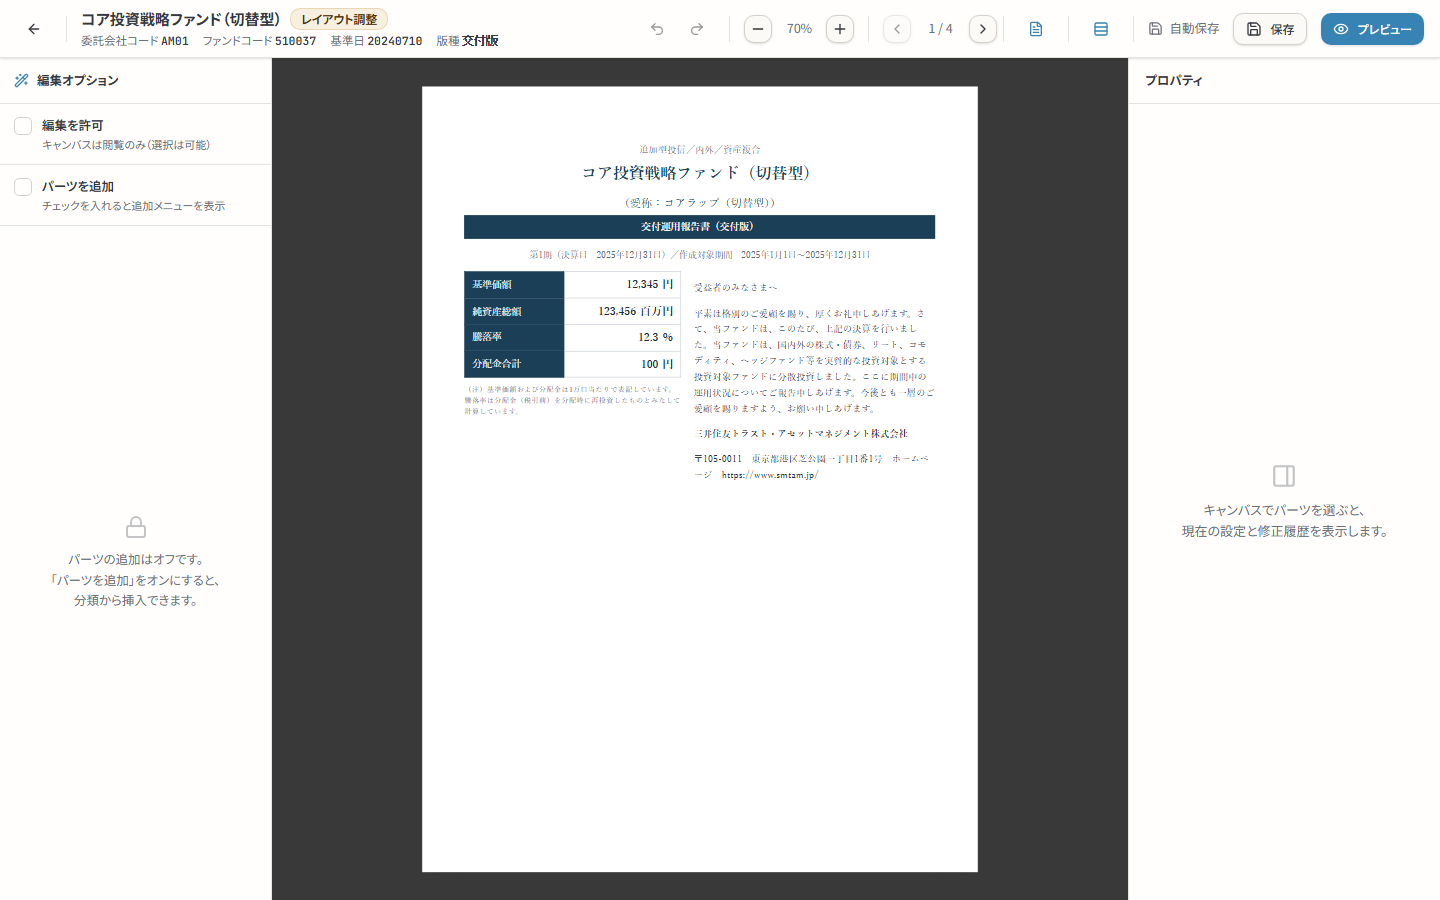
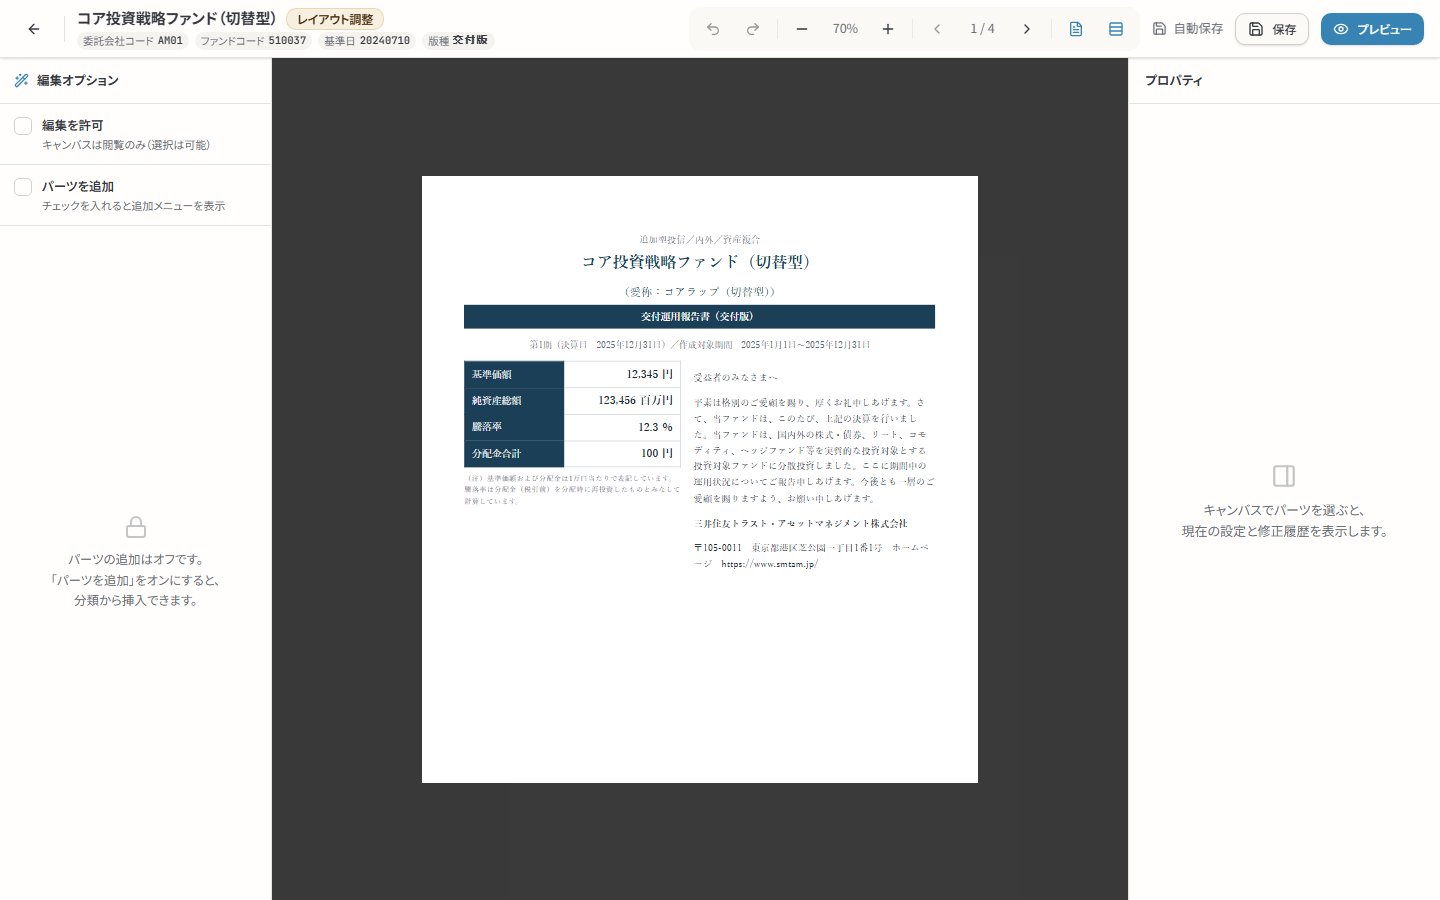
docs(editor): バリデーションライブラリ技術選定の比較資料を追加
編集画面のバリデーション実装に向けた技術選定の比較資料を追加し、編集タブ/エディタの
スクリーンショットを最新の UI へ更新する。

Claude-Session: https://claude.ai/code/session_015aMbdvtz8hQw4kTMmwDthj

diff --git a/docs/editor/技術選定-バリデーションライブラリ比較.md b/docs/editor/技術選定-バリデーションライブラリ比較.md
@@ -1,0 +1,90 @@
+# 技術選定: バリデーションライブラリ比較（zod 代替調査）
+
+> 開発者向けの技術判断メモ。配布用 docx ではなく Markdown 正典として扱う。
+> 調査日: 2026-06-27。
+
+## 背景（なぜ調べたか）
+
+`editor/server` は現在 **zod ^4.4.3** をバリデーション基盤に採用している。次の3点を
+動機に、`ArkType` / `Valibot` 等の代替を評価した。
+
+1. 性能・将来性の妥当性確認
+2. バンドルサイズ削減の余地
+3. 今後 `editor/web`（Vue/Vite SPA）にクライアントバリデーションを追加する布石
+
+結論を先に書くと、**サーバは zod 4 継続が妥当**、**フロント追加時はそのレイヤだけ
+`Valibot` を検討**、が本リポジトリへの推奨である。
+
+## 現状の zod 使用実態
+
+- **使用範囲はサーバ専用**。`editor/server` の 13 ファイルのみ。`editor/web` /
+  `editor/shared` / `graph-editor` は zod 非依存で、フロントにクライアント
+  バリデーションは未実装。
+- **`zod-openapi ^5.4.6` と密結合**（最大のロックイン）。`z.enum().meta({ id })` 等の
+  zod4 固有 API でスキーマにメタデータを付け、`createDocument()` で OpenAPI 3.1 を
+  自動生成している。
+  - 代表: `editor/server/src/openapi/schemas.ts`, `editor/server/src/openapi/document.ts`
+- 使用している zod4 固有 API: `z.prettifyError`（`editor/server/src/middleware/validate.ts`）、
+  `.meta()`, `.strict()`, `.partial()`, `safeParse`, `z.infer`, `z.enum`。
+- 主なパターン:
+  1. 環境設定検証（`editor/server/src/config.ts`）
+  2. Express ボディ検証ミドルウェア（`editor/server/src/middleware/validate.ts`）
+  3. ルート単位スキーマ＋`z.infer`（各 `editor/server/src/routes/*.routes.ts`）
+- TS 構成: `editor/tsconfig.base.json` で `strict: true` / `target ES2022`、サーバは
+  `NodeNext`（Node 24 ESM）。**サーバ実行のためバンドルサイズは実質無関係**。
+
+## 候補ライブラリ比較
+
+| 観点 | zod 4（現状） | Valibot | ArkType |
+|---|---|---|---|
+| 設計思想 | メソッドチェーン `z.string().min(1).email()` | モジュラー＋パイプ `v.pipe(v.string(), v.nonEmpty(), v.email())` | TS 型リテラル風 `type({ name: "string>0" })` |
+| バンドル(login schema 代表値) | 標準 ~17.7KB / Mini ~6.9KB | **~1.4KB**（最小） | ~40KB（パーサ/JIT を常時同梱） |
+| ツリーシェイク | v4 で `zod/v4-mini` 追加（限定的） | **完全対応**（関数粒度） | 効きにくい（エンジン同梱型） |
+| 実行性能 | 速い（v4 で大幅改善） | 速い（ArkType 寄り） | **最速**（JIT、zod 比 3-4x の報告） |
+| 型推論 | `z.infer<T>` | `InferOutput<T>` / `InferInput<T>` | `typeof schema.infer` |
+| エラー整形 | `z.prettifyError`, `issues[]` | `flatten` / `issues[]` | `summary` / `byPath` |
+| 学習コスト | 低（普及・資料多） | 低〜中（パイプに慣れが要る） | **中〜高**（独自 DSL） |
+| 成熟度/エコシステム | **最大**（事実上の標準） | 成長中・安定 | 新興・活発 |
+| Standard Schema | 対応 | 対応（共同策定） | 対応（共同策定） |
+| OpenAPI/JSON Schema | **`zod-openapi` が成熟** | `@valibot/to-json-schema`（OpenAPI は別途組立） | `schema.toJsonSchema()` 内蔵（OpenAPI は別途） |
+| Vue / vee-validate | `@vee-validate/zod` | `@vee-validate/valibot` | Standard Schema 経由で利用可 |
+
+### 補足: Standard Schema（移行リスクを下げる鍵）
+
+zod / Valibot / ArkType の3つは**共通インターフェース Standard Schema を実装済み**。
+`vee-validate` / `tRPC` / TanStack Form 等の下流ツールは Standard Schema 対応なら
+**ライブラリ非依存**でスキーマを受け付ける。＝将来フロントで採用する際、フォーム連携の
+adapter ロックインは小さい。
+
+## このコードベースへの評価
+
+### サーバ（`editor/server`）— 乗り換えの実利は薄い
+
+- 代替勢の最大の売り＝**バンドル削減はサーバでは無意味**。性能も zod4 で実用上十分。
+- `zod-openapi` 依存が重い。`Valibot` / `ArkType` へ移すと OpenAPI 生成系
+  （`editor/server/src/openapi/schemas.ts`・`editor/server/src/openapi/document.ts`）を
+  **別ツールで作り直し**になり、`.meta({ id })` による `#/components/schemas` 再利用や
+  メタ付与の作法も置き換えが必須。移行コスト > 得られる利益。
+- **結論: サーバは zod 4 を継続が妥当。**
+
+### 将来のフロント（`editor/web` にクライアントバリデーション追加時）
+
+- ここが代替勢の本領。**ブラウザ配布物のサイズが効く**ため:
+  - バンドル最優先・フォーム中心 → **`Valibot`**（最小、`@vee-validate/valibot` で Vue 連携）。
+  - 入力スキーマをサーバと共有したい → **Standard Schema 経由**でサーバ側 zod スキーマを
+    そのままフロントのフォーム検証に流用する選択肢もある（重複定義の回避）。
+- `ArkType` は型表現力・速度は魅力だが、独自 DSL の学習コストと ~40KB の下限が
+  フロント用途では不利。サーバ用途でも `zod-openapi` 置換コストに見合わない。
+
+### 総合推奨（このリポジトリ）
+
+1. **当面は zod 4 を主軸として継続**（特にサーバ＋OpenAPI 連携）。
+2. フロントにバリデーションを足す段階で、**そのレイヤだけ `Valibot` を検討**。
+   下流連携は Standard Schema 前提で選ぶとロックインを最小化できる。
+3. `ArkType` は「サーバの高速化が支配的要件になった」等の特殊事情が出たときの再評価対象。
+
+## 参考
+
+- Valibot 公式比較: https://valibot.dev/guides/comparison/
+- Standard Schema: https://standardschema.dev/
+- ArkType integrations: https://arktype.io/docs/integrations
